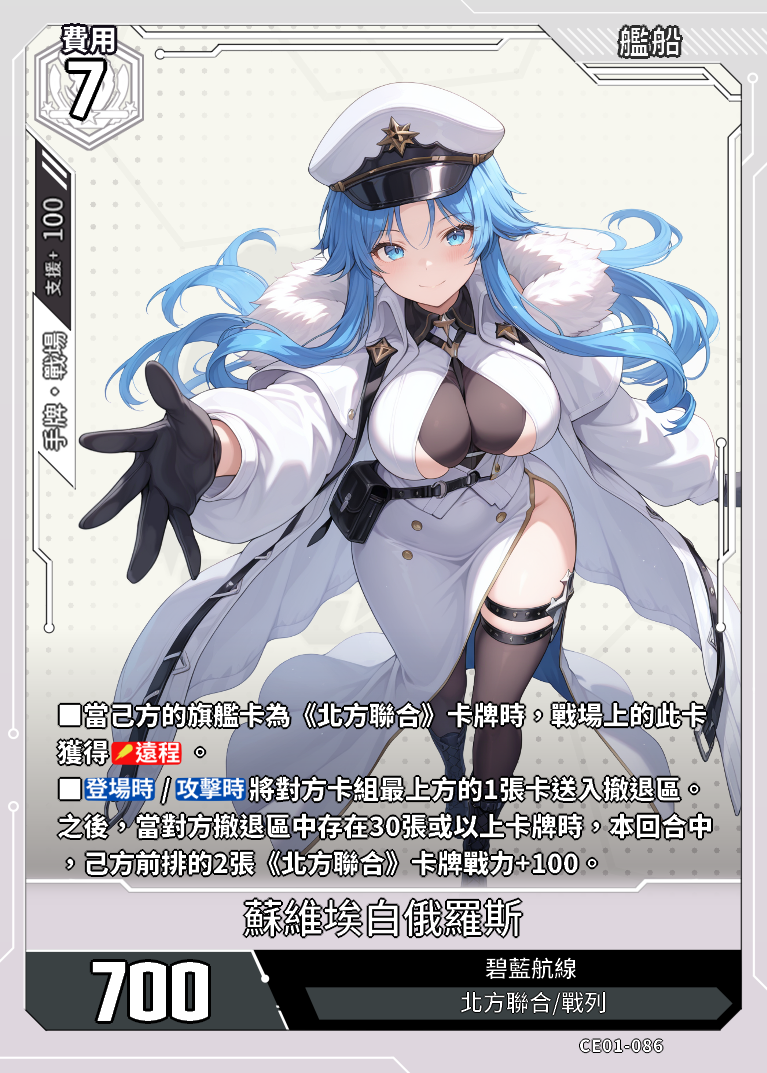
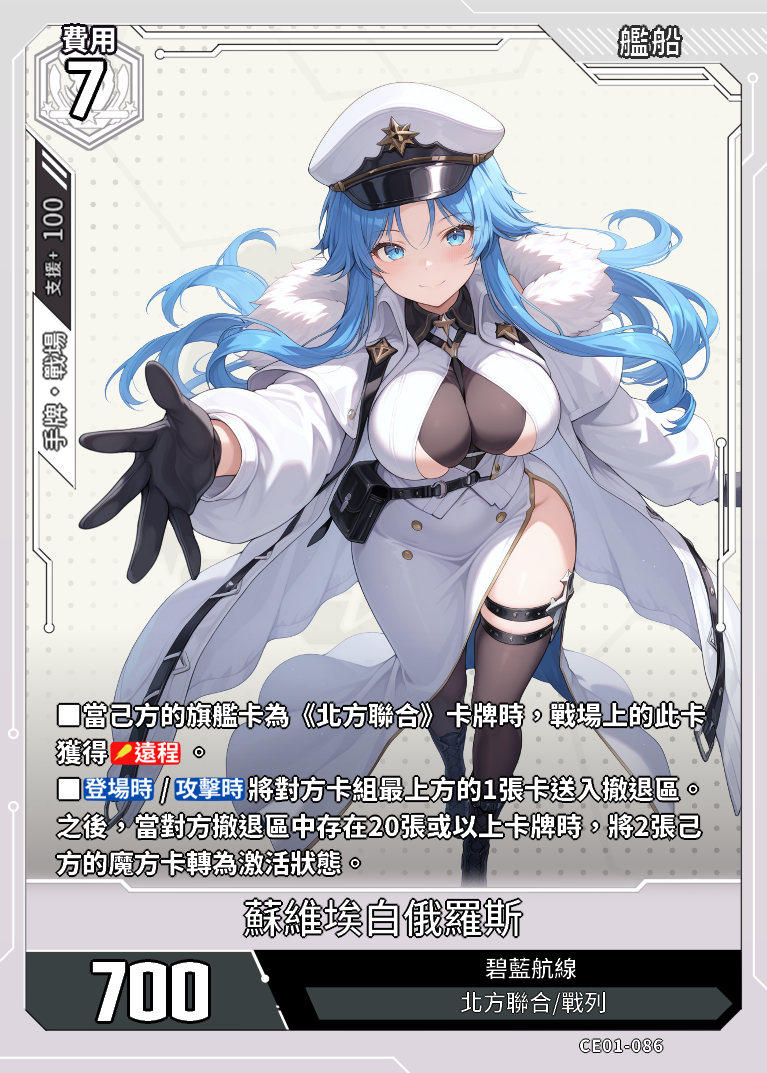
修改蘇維埃白俄羅斯跟斷罪之斧

Changed region(s): [[0.06, 0.6459, 0.9296, 0.8304]]

diff --git a/data.js b/data.js
@@ -23576,7 +23576,7 @@ const cards = [
             "支援範圍": "手牌·戰場",
             "支援值": "100"
         },
-        "card_effect": "■當己方的旗艦卡為《北方聯合》卡牌時，戰場上的此卡獲得【遠程】。■【登場時】/【攻擊時】將對方卡組最上方的1張卡送入撤退區。之後，若對方撤退區存在30張或以上卡牌，本回合中，己方前排的2張《北方聯合》卡牌戰力+100。",
+        "card_effect": "■當己方的旗艦卡為《北方聯合》卡牌時，戰場上的此卡獲得【遠程】。■【登場時】/【攻擊時】將對方卡組最上方的1張卡送入撤退區。之後，若對方撤退區存在20張或以上卡牌，將2張己方的魔方卡轉為激活狀態。",
         "acquisition_method": "CE01"
     },
     {
@@ -23690,7 +23690,7 @@ const cards = [
             "支援範圍": "-",
             "支援值": "-"
         },
-        "card_effect": "■【追擊】可以將己方戰場上1張處於激活狀態的艦船卡擊破。若有執行此動作時，本次戰鬥中，己方戰場上的1張卡牌戰力+300。",
+        "card_effect": "■【追擊】可以將己方戰場上1張費用為3或以上且處於激活狀態的艦船卡擊破。若有執行此動作時，本次戰鬥中，己方戰場上的1張卡牌戰力+300。",
         "acquisition_method": "CE01"
     }
 ]
